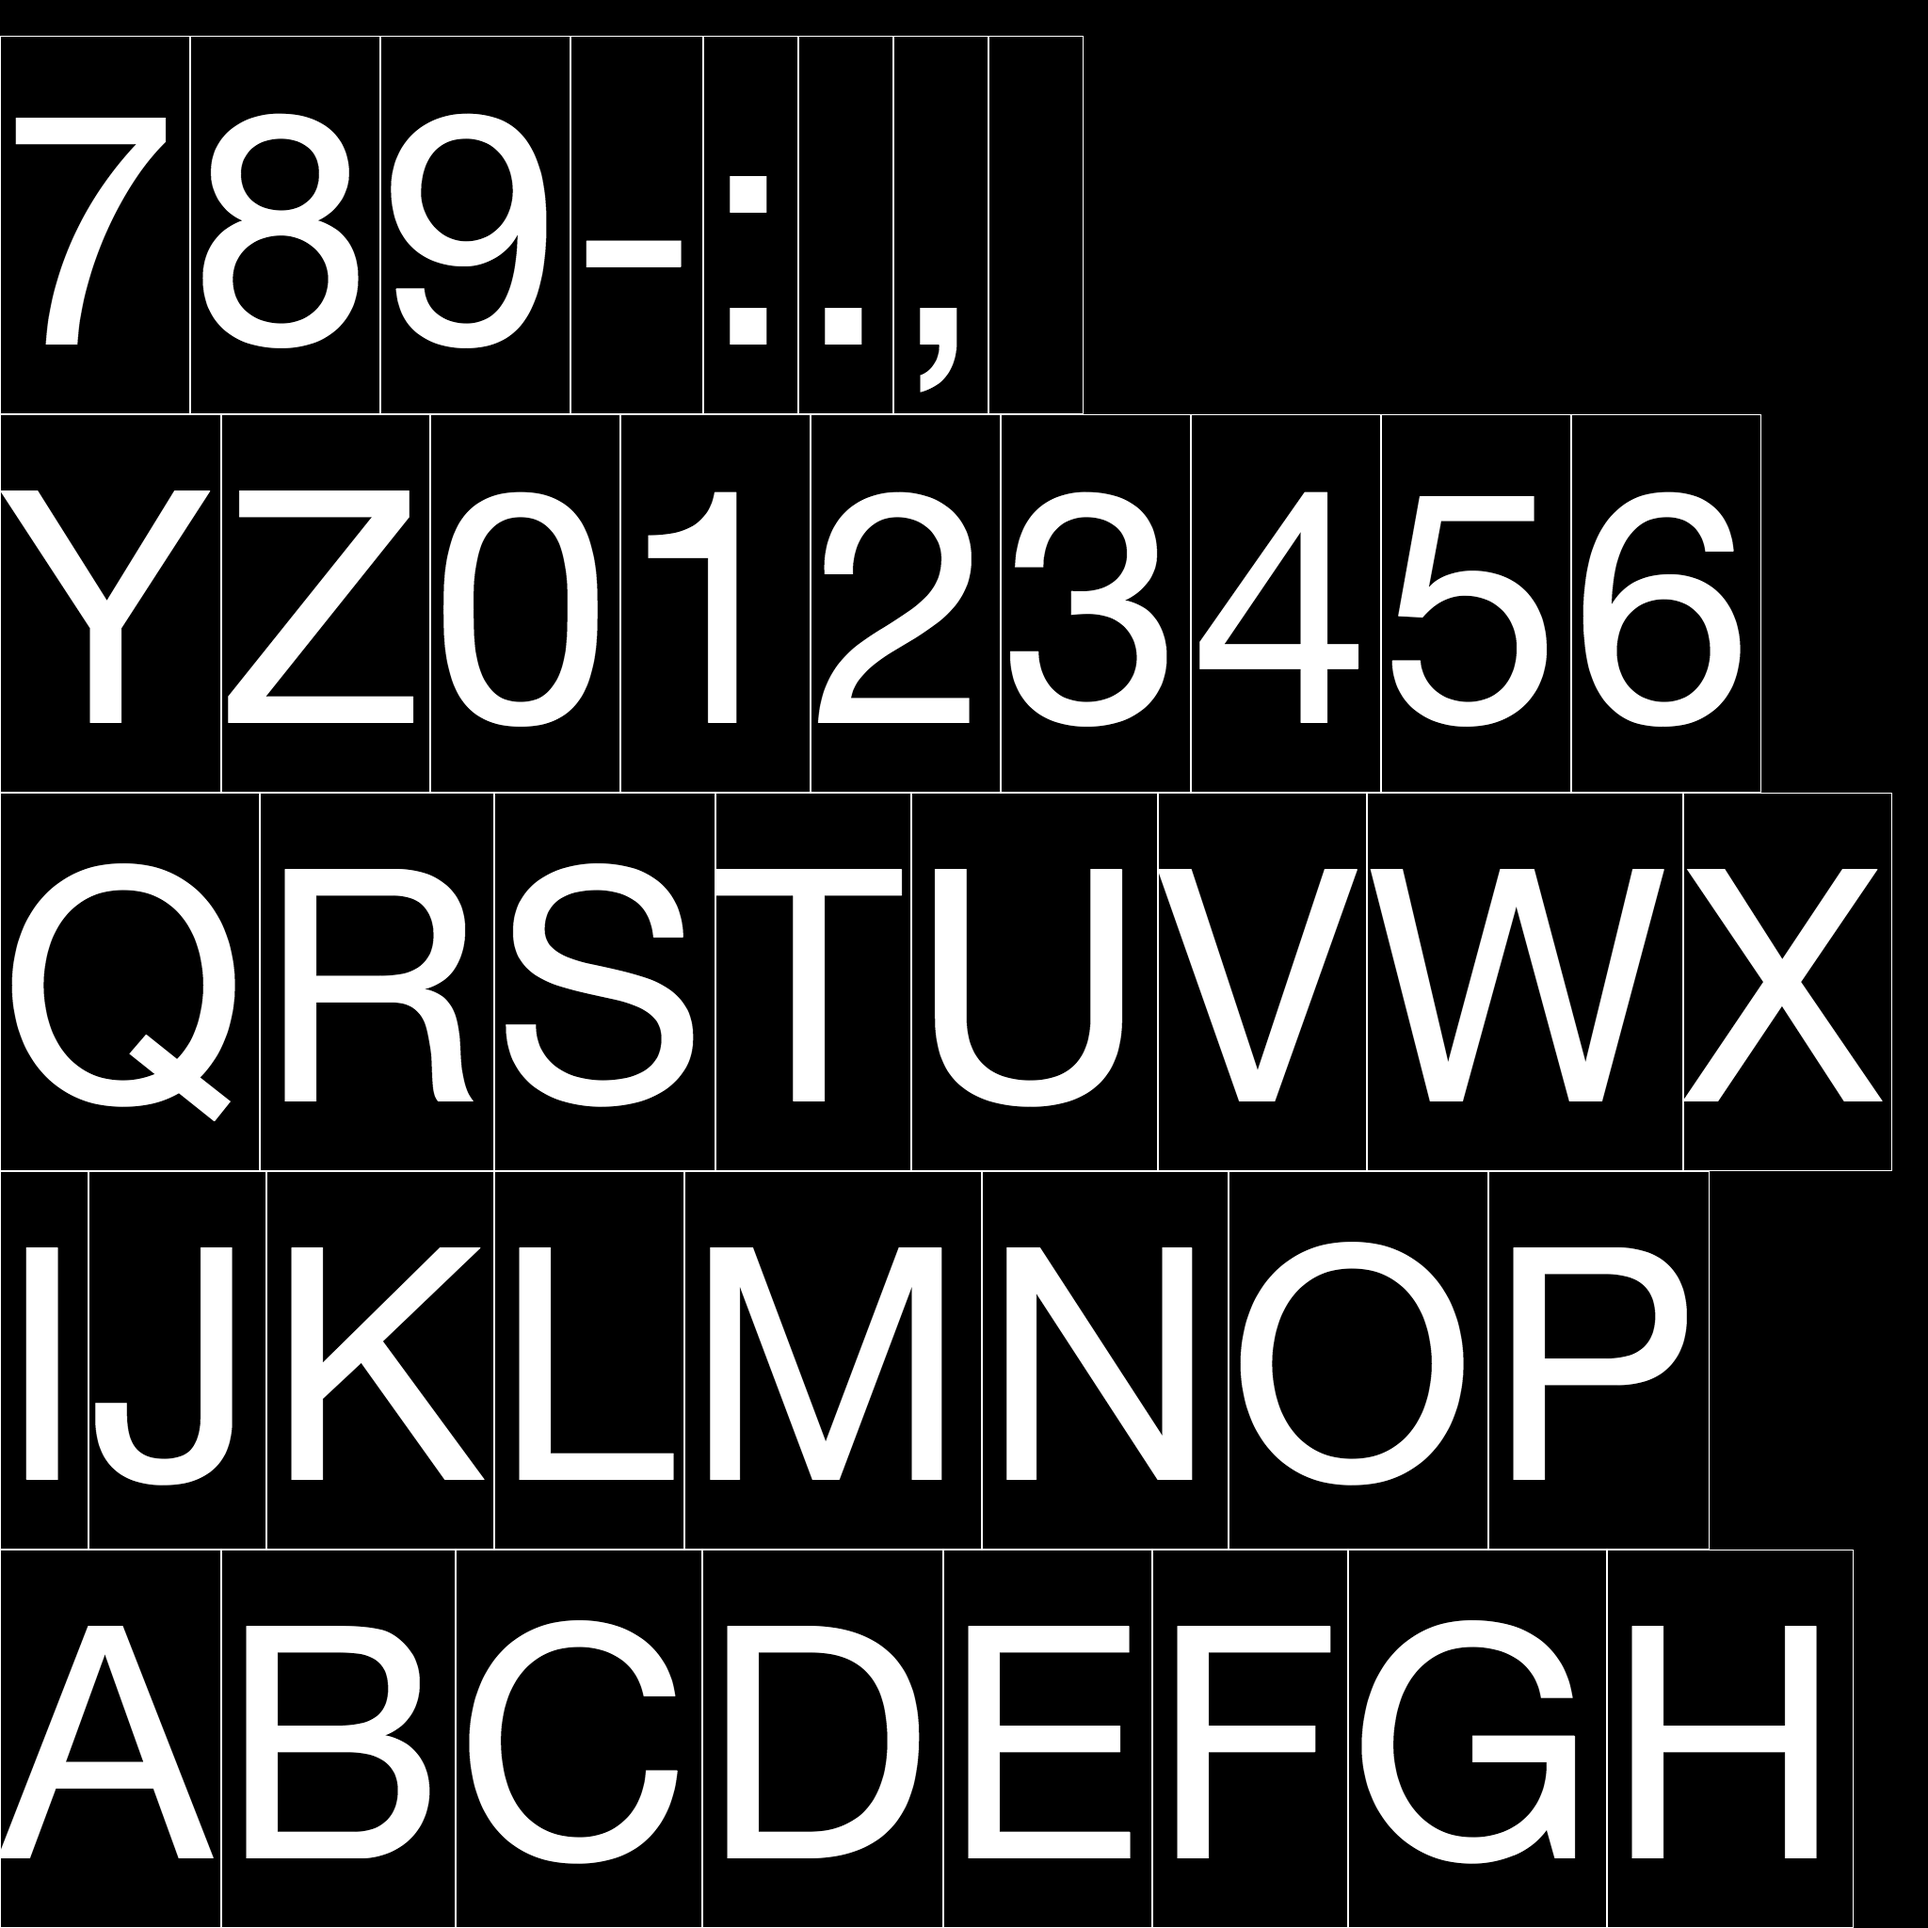
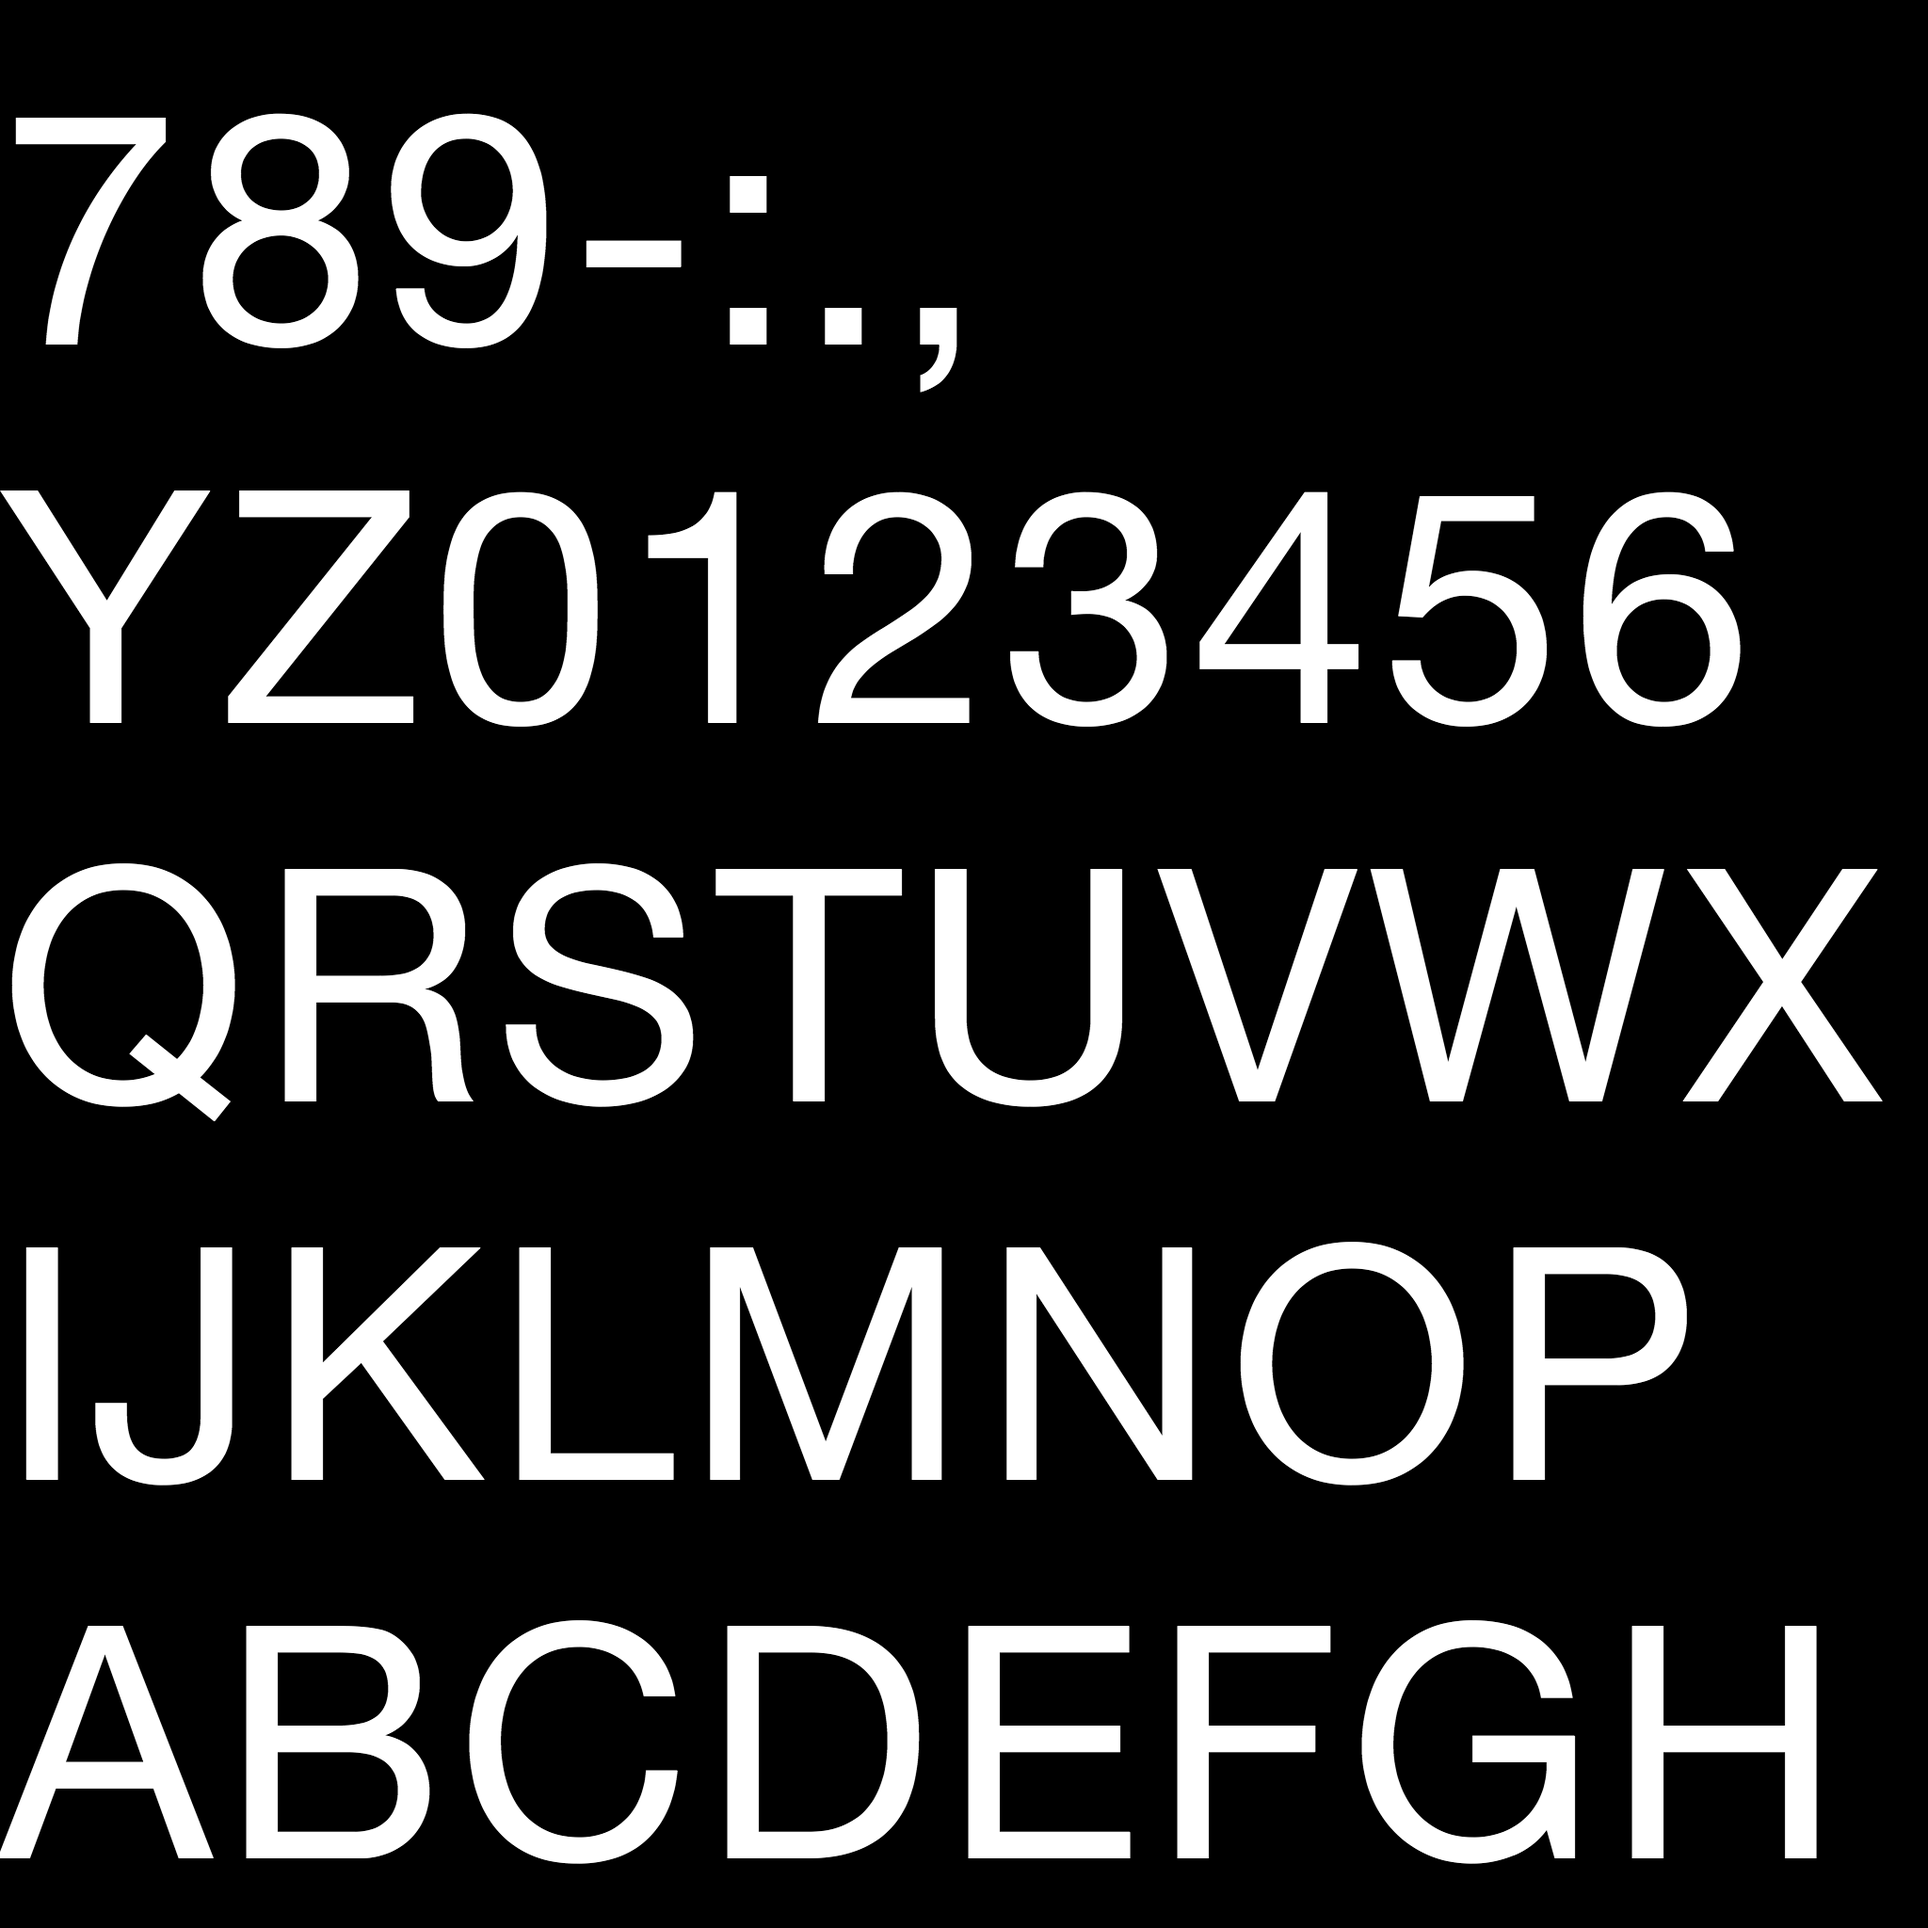
New bitmap, disabled depth drawing, etc.

diff --git a/SplitFlap/SplitFlap/Flap.m b/SplitFlap/SplitFlap/Flap.m
@@ -52,6 +52,11 @@
 	mTicksAtRest = 0;
 }
 
+- (float)angle
+{
+	return mAngle;
+}
+
 #define GLERR
 
 - (void)drawOpenGL
@@ -63,16 +68,6 @@
 	glBindTexture(GL_TEXTURE_2D, [[font texture] name]);
 	
 	glPushMatrix();
-
-	const GLfloat halfHeight = 1.0;
-	const GLfloat halfWidth = 1.0;
-	const GLfloat squareVertices[] = {
-        -halfWidth, -halfHeight * 0,
-		halfWidth, -halfHeight * 0
-		,
-        -halfWidth,  halfHeight,
-		halfWidth,  halfHeight,
-    };
 	
 	glRotatef(-mAngle, 1, 0, 0);
 	
@@ -100,6 +95,27 @@
 	GLfloat x1 = CGRectGetMaxX(textureRect);
 	GLfloat y1 = textureRect.origin.y + textureRect.size.height;
 	
+	const GLfloat letterAspectRatio = (2.0*fabs(textureRect.size.height)) / textureRect.size.width;
+	const GLfloat halfHeight = 1.0;
+	const GLfloat halfWidth = 1.0;
+	const GLfloat letterWidth = 1.5/letterAspectRatio;
+	
+	const GLfloat squareVertices[] = {
+        -halfWidth, -halfHeight * 0,
+		halfWidth, -halfHeight * 0
+		,
+        -halfWidth,  halfHeight,
+		halfWidth,  halfHeight,
+    };
+	
+	const GLfloat letterVertices[] = {
+        -letterWidth, -halfHeight * 0,
+		letterWidth, -halfHeight * 0
+		,
+        -letterWidth,  halfHeight,
+		letterWidth,  halfHeight,
+    };
+
 	GLfloat textureCoords[] = {
 		x0, y1, //0,1,
 		x1, y1, //1,1,
@@ -107,12 +123,22 @@
 		x1, y0, //1,0
 	};
 	
-	glTexCoordPointer(2, GL_FLOAT, 0, textureCoords);
-	glEnableClientState(GL_TEXTURE_COORD_ARRAY);
-	
 	glVertexPointer(2, GL_FLOAT, 0, squareVertices);
 	glEnableClientState(GL_VERTEX_ARRAY);
 	GLERR;
+	
+	glDisable(GL_TEXTURE_2D);
+	glDisableClientState(GL_TEXTURE_COORD_ARRAY);
+	
+	glColor4f(0, 0, 0, 1);
+	glDrawArrays(GL_TRIANGLE_STRIP, 0, 4);
+	
+
+	glEnable(GL_TEXTURE_2D);
+	glVertexPointer(2, GL_FLOAT, 0, letterVertices);
+
+	glTexCoordPointer(2, GL_FLOAT, 0, textureCoords);
+	glEnableClientState(GL_TEXTURE_COORD_ARRAY);
 	
 	glColor4f(1, 1, 1, 1);
 	glDrawArrays(GL_TRIANGLE_STRIP, 0, 4);

diff --git a/SplitFlap/SplitFlap/Digit.m b/SplitFlap/SplitFlap/Digit.m
@@ -19,7 +19,6 @@
     self = [super init];
     if (self) {
         mCharacters = [[[BitmapFont standardFont] characters] sortedArrayUsingSelector:@selector(compare:)];
-//		mCharacters = [NSArray arrayWithObjects:@"1", @"2", @"3", @"4", nil];
 		NSMutableArray *flaps = [NSMutableArray array];
 		NSString *lastChStr = [mCharacters lastObject];
 		for (NSString *chStr in mCharacters)
@@ -31,13 +30,13 @@
 			lastChStr = chStr;
 			
 			[flap reset];
+			flap.hidden = YES;
 		}
-		[[mFlaps objectAtIndex:0] setHidden:YES];
 		mFlaps = flaps;
 		mTopCharacterIndex = 0;
 		mTicksUntilNextTrip = NSUIntegerMax;
 		
-		[self setCharacter:@"L" animated:YES];
+		[self setCharacter:@"A" animated:YES];
     }
     return self;
 }
@@ -99,11 +98,34 @@
 	[self setCharacter:[mCharacters objectAtIndex:random() % [mCharacters count]] animated:YES];
 }
 
+- (NSArray *)flapsForDrawing
+{
+	NSMutableArray *output = [NSMutableArray array];
+	for (Flap *flap in self.flaps)
+	{
+		if (flap.hidden == NO)
+			[output addObject:flap];
+	}
+	[output sortUsingComparator:^NSComparisonResult(id obj1, id obj2) {
+		Flap *a = obj1;
+		Flap *b = obj2;
+		float angleA = fabsf(a.angle - 90);
+		float angleB = fabsf(b.angle - 90);
+		if (angleA == angleB)
+			return NSOrderedSame;
+		if (angleA < angleB)
+			return NSOrderedDescending;
+		else
+			return NSOrderedAscending;
+	}];
+	return output;
+}
+
 - (void)drawOpenGL
 {
 	glEnable(GL_TEXTURE_2D);
 	
-	for (Flap *flap in self.flaps)
+	for (Flap *flap in [self flapsForDrawing])
 	{
 		[flap drawOpenGL];
 	}

diff --git a/SplitFlap/SplitFlap/SplitFlapViewController.m b/SplitFlap/SplitFlap/SplitFlapViewController.m
@@ -25,7 +25,6 @@
 		self.preferredFramesPerSecond = 30;
 		EAGLContext *context = [[EAGLContext alloc] initWithAPI:kEAGLRenderingAPIOpenGLES1];
 		GLKView *view = [[GLKView alloc] initWithFrame:CGRectZero context:context];
-		view.drawableDepthFormat = GLKViewDrawableDepthFormat16;
 		self.view = view;
 		
 		mDigit = [[Digit alloc] init];
@@ -90,9 +89,7 @@
 - (void)glkView:(GLKView *)view drawInRect:(CGRect)rect
 {
 	glClearColor(0.3, 0.3, 0.3, 1.0);
-	glClear(GL_COLOR_BUFFER_BIT | GL_DEPTH_BUFFER_BIT);
-	
-	glEnable(GL_DEPTH_TEST);
+	glClear(GL_COLOR_BUFFER_BIT);
 	
 	[mDigit drawOpenGL];
 	
@@ -103,7 +100,7 @@
 
 - (void)splitFlapClientConnected:(SplitFlapClient *)client
 {
-	[self setString:@"!"];
+	[self setString:@" "];
 	mHeartbeatTimer = [NSTimer scheduledTimerWithTimeInterval:1.0 target:self selector:@selector(heartbeat:) userInfo:nil repeats:YES];
 }
 

diff --git a/SplitFlap/SplitFlap/Flap.h b/SplitFlap/SplitFlap/Flap.h
@@ -16,6 +16,7 @@
 @property (nonatomic, strong) NSString *front; // draw top half of this character on the front
 @property (nonatomic, strong) NSString *back; // draw bottom half of this character on the back
 @property (nonatomic, readonly) NSUInteger ticksAtRest;
+@property (nonatomic, readonly) float angle;
 @property (nonatomic, assign) BOOL hidden;
 
 - (void)reset; // reset this flap to be upright and ready to fall
